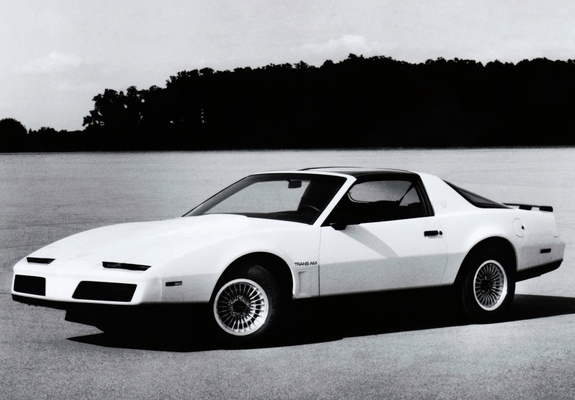
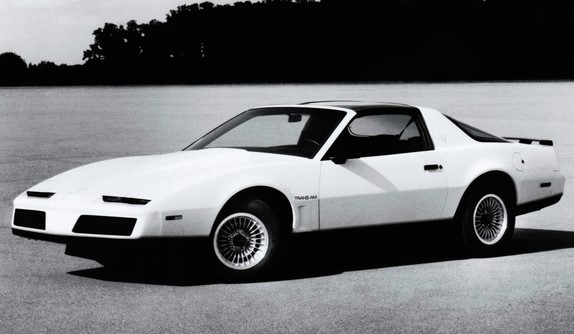
Fixed some sizing issues

diff --git a/index.html b/index.html
@@ -14,13 +14,13 @@
         }
 
         img[src="img/grim.jpg"] {
-            max-width: 100px;
-            margin: 50px auto;
+            max-width: 70px;
+            margin: 22px auto;
         }
 
         img[src="img/transam.jpg"] {
-            margin: 50px auto 2px;
-            max-width: 85%;
+            margin: 15px auto 2px;
+            max-width: 75%;
             border: 1px solid lightgray;
             border-radius: 2px;
         }
@@ -36,7 +36,7 @@
         }
 
         h1 {
-            font-size: 3em;
+            font-size: 2.8em;
         }
 
     </style>
